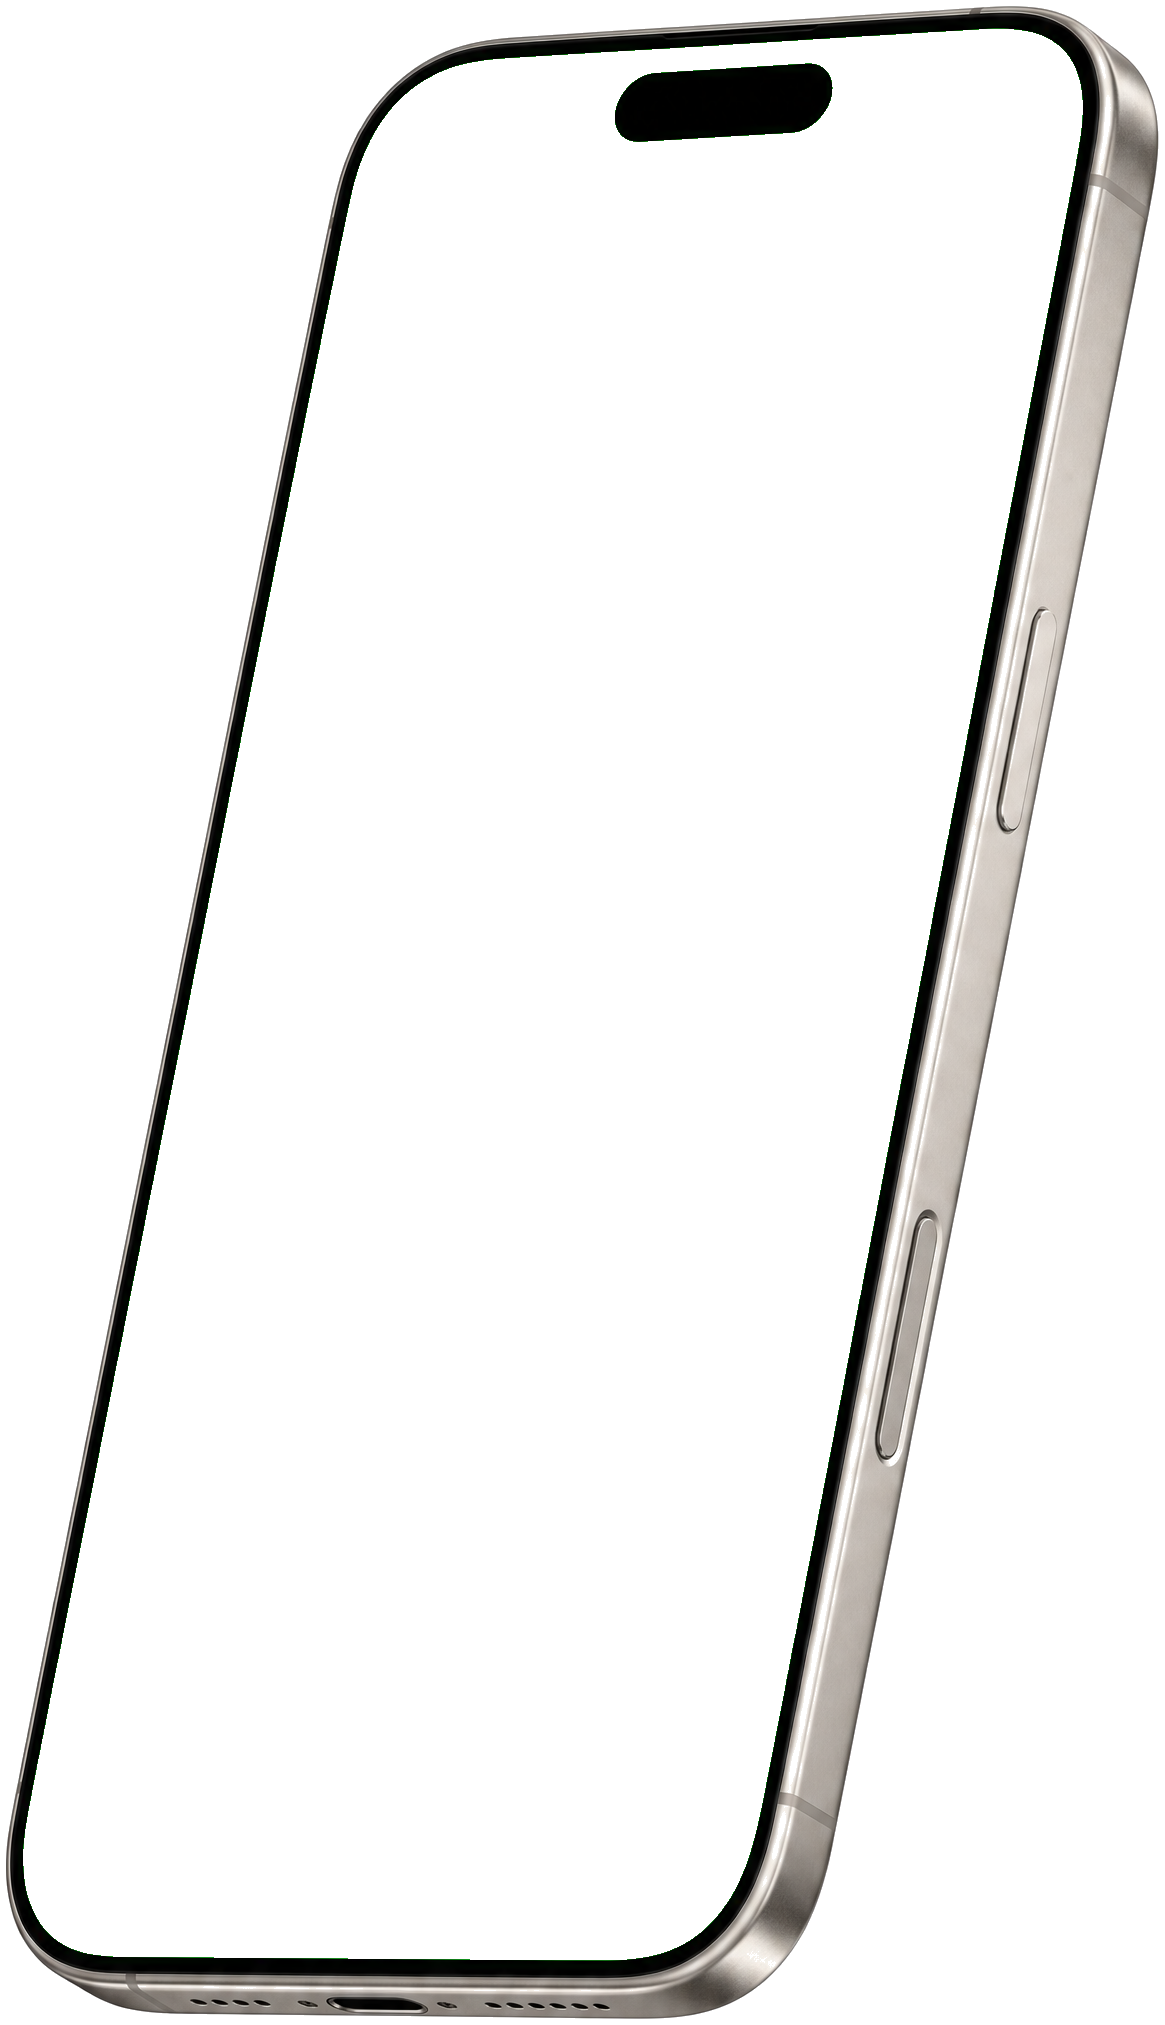
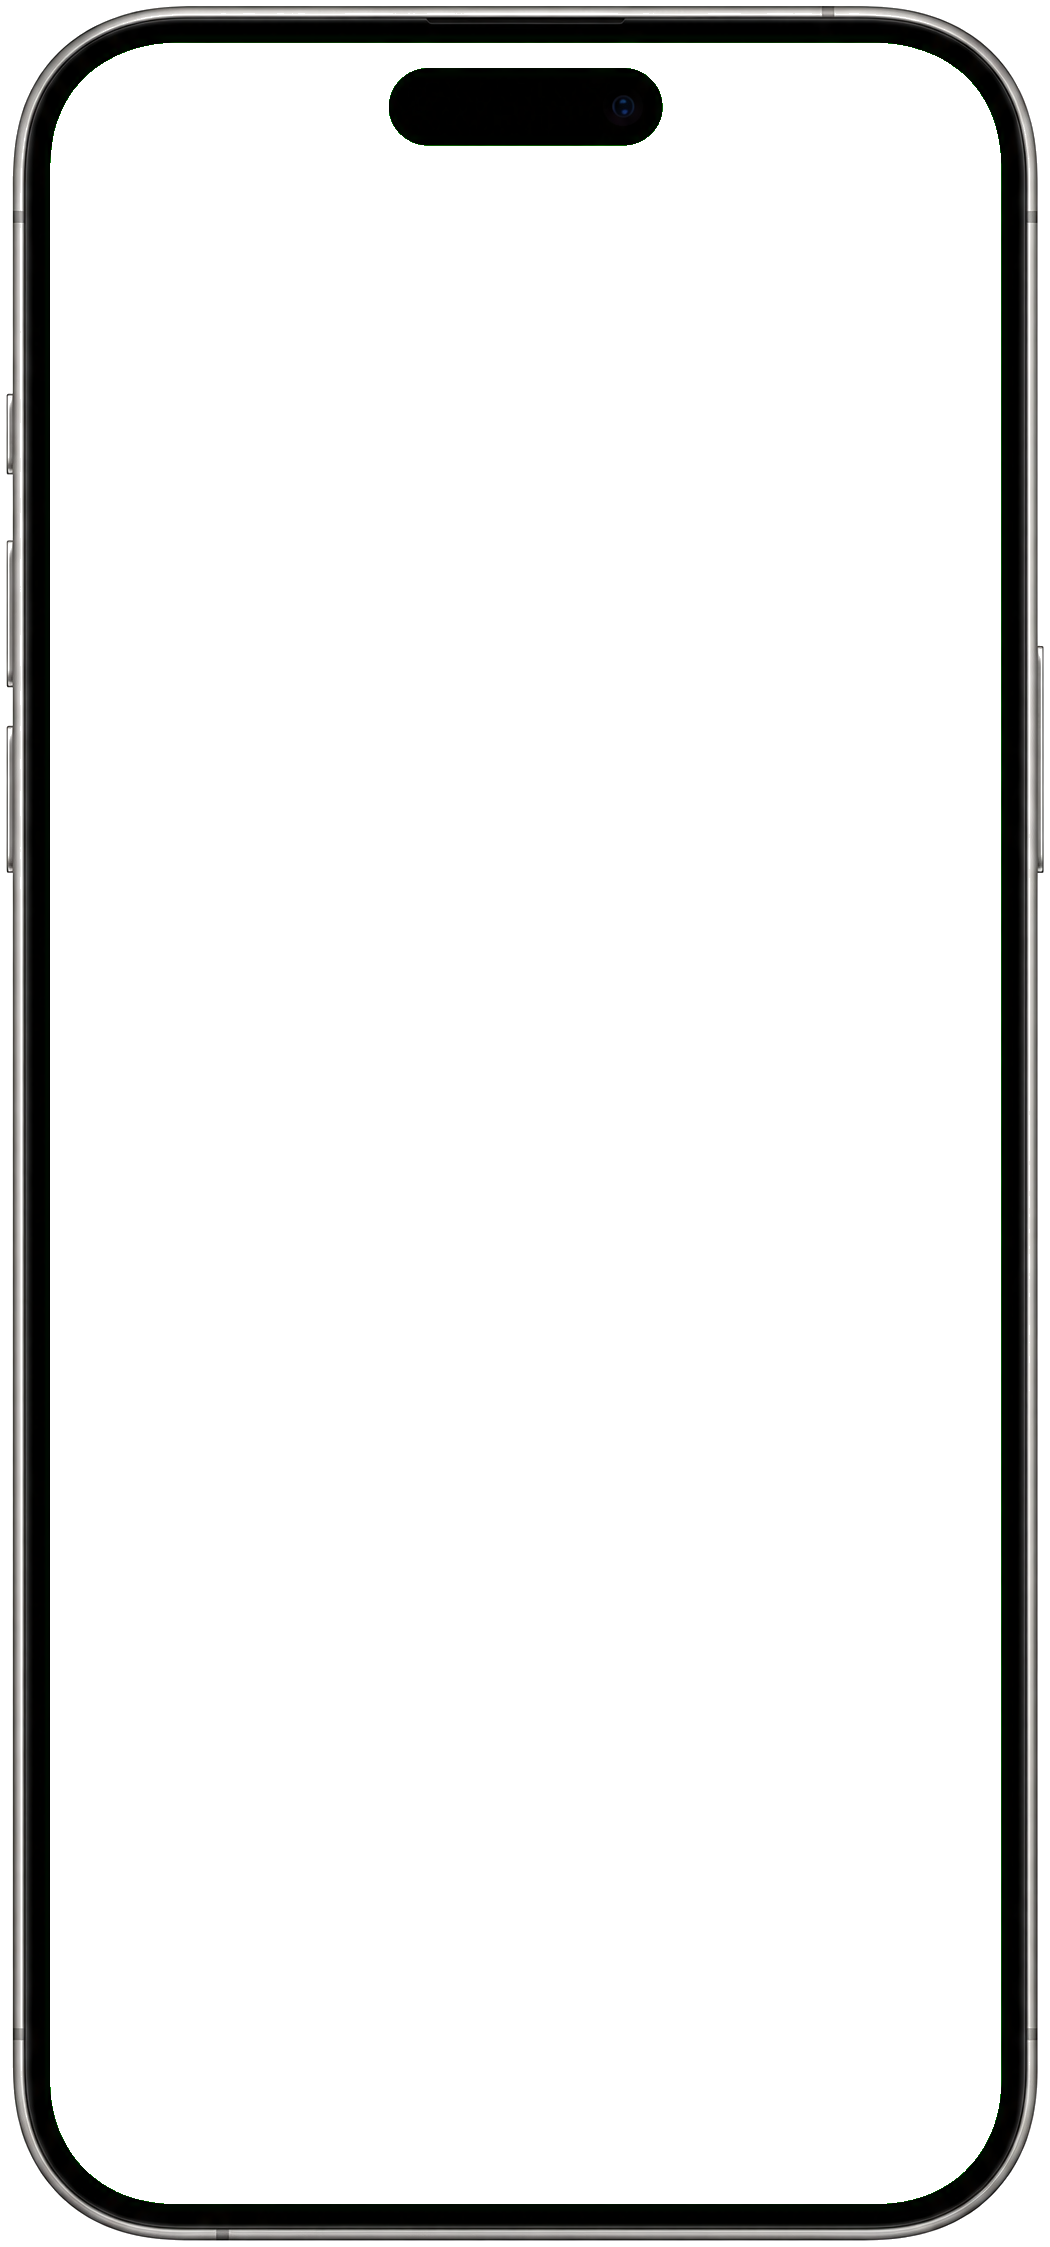
Hero: straight-on keyed phone render with the welcome video in its screen

Changed region(s): [[0.0, 0.0, 1.0, 1.0]]

diff --git a/landing.css b/landing.css
@@ -30,16 +30,16 @@ h1,h2{font-family:var(--serif);font-weight:600;margin:0;text-wrap:balance;letter
 .lede{font-family:var(--serif);font-size:clamp(16px,1.5vw,18px);line-height:1.5;color:var(--ink2);max-width:40ch;margin:0 0 30px}
 .fine{font-size:13px;color:var(--ink3);margin:16px 0 0}
 
-/* the phone: a keyed Higgsfield render of the frame, with the real welcome
-   recording projected onto its screen and a CSS shadow beneath */
+/* the phone: a keyed Higgsfield front render, the real welcome recording
+   sitting in its screen, a CSS shadow beneath */
 .device-wrap{position:relative;display:flex;justify-content:center;padding:0}
-.render{position:relative;width:min(440px,100%,calc(74vh * 1165 / 2025));aspect-ratio:1165/2025}
+.render{position:relative;width:min(380px,100%,calc(76vh * 1050 / 2247));aspect-ratio:1050/2247}
 .render-frame{position:absolute;inset:0;width:100%;height:100%;z-index:2;pointer-events:none}
-.render-screen{position:absolute;left:0;top:0;width:588px;height:1280px;transform-origin:0 0;
-  transform:scale(calc(var(--k, 1))) matrix3d(1.078839,-0.085072,0.000000,-0.000034,-0.285265,1.375460,0.000000,-0.000032,0.000000,0.000000,1.000000,0.000000,404.397000,90.395000,0.000000,1.000000);z-index:1;overflow:hidden;background:#F6F2EA}
+.render-screen{position:absolute;left:4.762%;top:1.914%;width:90.571%;height:96.173%;
+  border-radius:12% / 5.5%;overflow:hidden;background:#F6F2EA;z-index:1}
 .render-screen video{width:100%;height:100%;object-fit:cover;display:block}
-.render-shadow{position:absolute;left:8%;right:4%;top:6%;bottom:0;border-radius:40% / 8%;
-  background:rgba(35,26,18,.42);filter:blur(34px);transform:translate(4%,4%) skewX(-8deg);z-index:0}
+.render-shadow{position:absolute;left:6%;right:6%;bottom:-2%;height:12%;border-radius:50%;
+  background:rgba(35,26,18,.38);filter:blur(28px);z-index:0}
 
 /* pillars */
 .pillars{max-width:1240px;margin:clamp(72px,10vw,140px) auto 0;padding:0 var(--gutter);

diff --git a/index.html b/index.html
@@ -37,14 +37,14 @@
   </div>
 
   <div class="device-wrap">
-    <div class="render" role="img" aria-label="An iPhone leaning back, showing Diction's welcome screen: the DICTION wordmark above three rows of widgets drifting past on classical themes">
+    <div class="render" role="img" aria-label="An iPhone showing Diction's welcome screen: the DICTION wordmark above three rows of widgets drifting past on classical themes">
       <div class="render-shadow" aria-hidden="true"></div>
       <div class="render-screen">
         <video autoplay muted loop playsinline poster="img/welcome-poster.jpg" preload="metadata">
           <source src="img/welcome.mp4" type="video/mp4">
         </video>
       </div>
-      <img class="render-frame" src="img/phone-frame.png" alt="" width="1165" height="2025" fetchpriority="high">
+      <img class="render-frame" src="img/phone-frame.png" alt="" width="1050" height="2247" fetchpriority="high">
     </div>
   </div>
 </section>
@@ -86,8 +86,5 @@
   </nav>
 </footer>
 
-<script>
-(function(){var r=document.querySelector('.render');function fit(){r.style.setProperty('--k',r.getBoundingClientRect().width/1165);}fit();addEventListener('resize',fit);})();
-</script>
 </body>
 </html>
